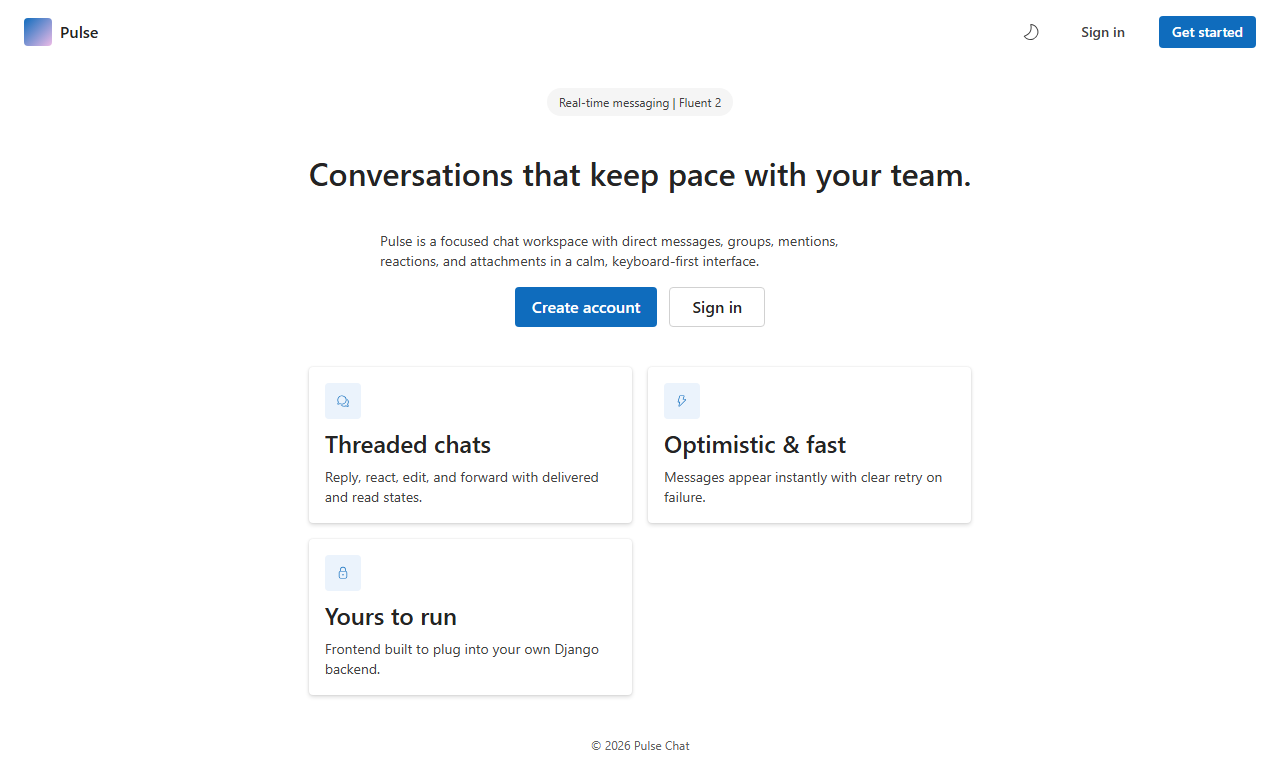
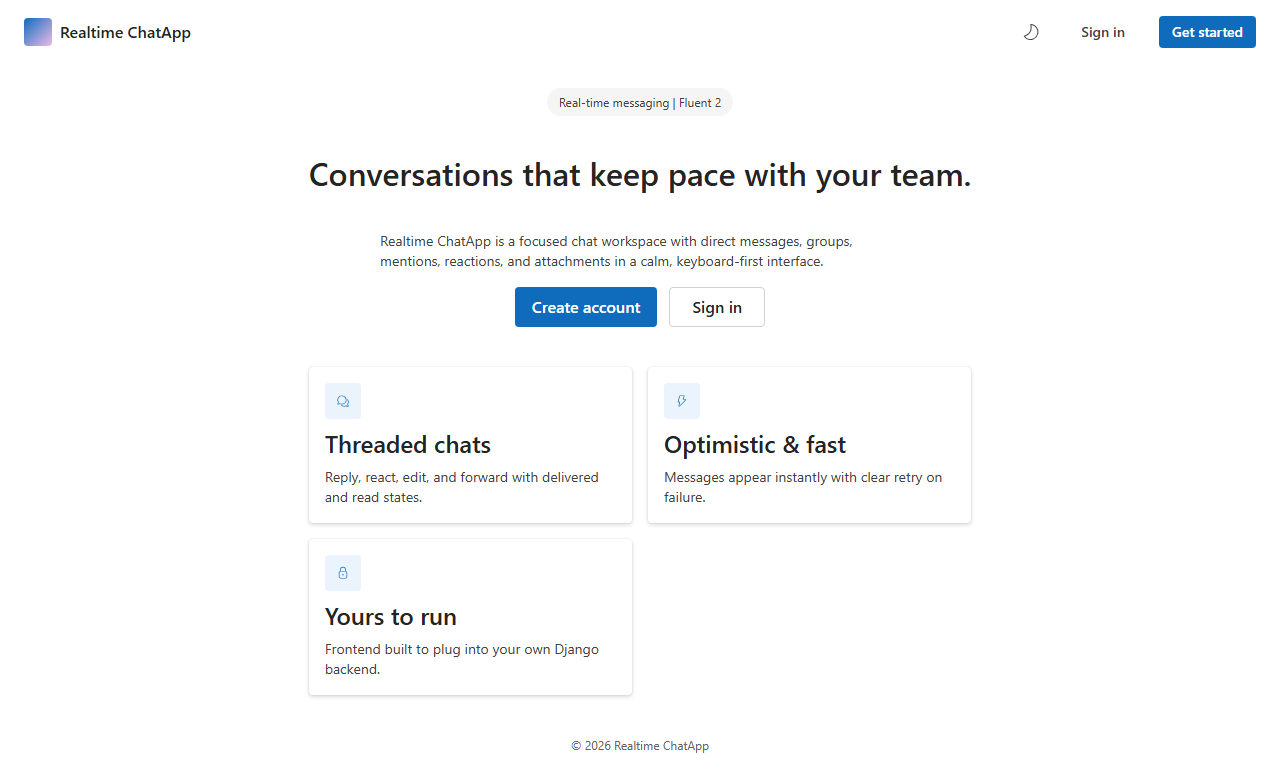
Rename app branding and refresh README (#2)

Changed region(s): [[0.2812, 0.3113, 0.6562, 0.3424], [0.4375, 0.965, 0.5625, 0.9961], [0.0312, 0.0311, 0.1562, 0.0623]]

diff --git a/src/pages/LandingPage.tsx b/src/pages/LandingPage.tsx
@@ -106,7 +106,7 @@ export default function LandingPage() {
       <header className={s.header}>
         <div className={s.brand}>
           <span className={s.brandMark} aria-hidden />
-          Pulse
+          Realtime ChatApp
         </div>
         <div style={{ display: "flex", gap: 8, alignItems: "center" }}>
           <ThemeToggle />
@@ -124,8 +124,8 @@ export default function LandingPage() {
           <span className={s.eyebrow}>Real-time messaging | Fluent 2</span>
           <Title1 as="h1">Conversations that keep pace with your team.</Title1>
           <Body1 style={{ color: tokens.colorNeutralForeground2, maxWidth: 520 }}>
-            Pulse is a focused chat workspace with direct messages, groups, mentions, reactions, and
-            attachments in a calm, keyboard-first interface.
+            Realtime ChatApp is a focused chat workspace with direct messages, groups, mentions,
+            reactions, and attachments in a calm, keyboard-first interface.
           </Body1>
           <div className={s.ctas}>
             <Link to="/register">
@@ -172,7 +172,7 @@ export default function LandingPage() {
         </div>
       </section>
 
-      <footer className={s.footer}>&copy; {new Date().getFullYear()} Pulse Chat</footer>
+      <footer className={s.footer}>&copy; {new Date().getFullYear()} Realtime ChatApp</footer>
     </div>
   );
 }

diff --git a/index.html b/index.html
@@ -4,12 +4,12 @@
     <meta charset="UTF-8" />
     <link rel="icon" type="image/x-icon" href="/favicon.ico" />
     <meta name="viewport" content="width=device-width, initial-scale=1, viewport-fit=cover" />
-    <title>Pulse Chat — Fast, focused messaging</title>
+    <title>Realtime ChatApp — Fast, focused messaging</title>
     <meta
       name="description"
-      content="Pulse Chat is a fast, focused messaging workspace for teams and friends."
+      content="Realtime ChatApp is a fast, focused messaging workspace for teams and friends."
     />
-    <meta property="og:title" content="Pulse Chat" />
+    <meta property="og:title" content="Realtime ChatApp" />
     <meta property="og:description" content="Fast, focused messaging for teams and friends." />
     <meta property="og:type" content="website" />
     <meta name="twitter:card" content="summary_large_image" />

diff --git a/src/pages/AuthLayout.tsx b/src/pages/AuthLayout.tsx
@@ -77,7 +77,7 @@ export function AuthLayout({ title, subtitle, children, quote }: Props) {
       <aside className={s.aside}>
         <Link to="/" className={s.brand} style={{ color: "inherit", textDecoration: "none" }}>
           <span className={s.brandMark} aria-hidden />
-          Pulse
+          Realtime ChatApp
         </Link>
         <div className={s.quote}>
           <Title2 as="p">
@@ -85,7 +85,7 @@ export function AuthLayout({ title, subtitle, children, quote }: Props) {
           </Title2>
         </div>
         <div style={{ color: tokens.colorNeutralForeground3, fontSize: tokens.fontSizeBase200 }}>
-          © {new Date().getFullYear()} Pulse Chat
+          © {new Date().getFullYear()} Realtime ChatApp
         </div>
       </aside>
       <main className={s.main}>
@@ -96,7 +96,7 @@ export function AuthLayout({ title, subtitle, children, quote }: Props) {
             style={{ color: "inherit", textDecoration: "none" }}
           >
             <span className={s.brandMark} aria-hidden />
-            Pulse
+            Realtime ChatApp
           </Link>
           <div style={{ marginLeft: "auto" }}>
             <ThemeToggle />

diff --git a/src/pages/ForgotPasswordPage.tsx b/src/pages/ForgotPasswordPage.tsx
@@ -60,7 +60,10 @@ export default function ForgotPasswordPage() {
   }
 
   return (
-    <AuthLayout title="Reset your password" subtitle="Enter the email you use for Pulse.">
+    <AuthLayout
+      title="Reset your password"
+      subtitle="Enter the email you use for Realtime ChatApp."
+    >
       <form className={s.form} onSubmit={onSubmit} noValidate>
         <Field
           label="Email"

diff --git a/src/pages/ChatPage.tsx b/src/pages/ChatPage.tsx
@@ -241,7 +241,7 @@ export default function ChatPage() {
             onClick={() => setDrawerOpen(true)}
           />
           <div className={s.brand}>
-            <span className={s.brandMark} /> Pulse
+            <span className={s.brandMark} /> Realtime ChatApp
           </div>
           <div style={{ marginLeft: "auto", display: "flex", gap: 4 }}>
             <Tooltip content="Search" relationship="label">

diff --git a/src/pages/SignInPage.tsx b/src/pages/SignInPage.tsx
@@ -58,7 +58,7 @@ export default function SignInPage() {
   }
 
   return (
-    <AuthLayout title="Welcome back" subtitle="Sign in to your Pulse account.">
+    <AuthLayout title="Welcome back" subtitle="Sign in to your Realtime ChatApp account.">
       <form className={s.form} onSubmit={onSubmit} noValidate>
         {error ? (
           <MessageBar intent="error">

diff --git a/README.md b/README.md
@@ -1,6 +1,10 @@
-# Pulse Chat
+# Realtime ChatApp
 
-Pulse Chat is a Fluent UI React frontend backed by Django, Django REST Framework, Channels, and SQLite. The repository includes seeded demo data, API integration, browser-based end-to-end tests, GitHub Actions CI, and reproducible README screenshots.
+Realtime ChatApp is a full-stack real-time messaging application with a React frontend and a Django backend. It combines Fluent UI, Django REST Framework, Channels, and SQLite3 to provide a focused workspace for direct messages and group conversations.
+
+The project includes token authentication, WebSocket delivery, reactions, replies, forwarding, deterministic demo data, Playwright E2E coverage, README screenshots, and GitHub Actions CI.
+
+Repository: [toscani-tenekeu/Realtime_ChatApp_Django_ReactJS_SQLite3](https://github.com/toscani-tenekeu/Realtime_ChatApp_Django_ReactJS_SQLite3)
 
 ## Screenshots
 
@@ -12,7 +16,7 @@ Pulse Chat is a Fluent UI React frontend backed by Django, Django REST Framework
 
 ## Stack
 
-- React 19 + Vite + Fluent UI 9
+- React 19 + Vite + Fluent UI
 - Django + Django REST Framework + Channels
 - SQLite for local development
 - Playwright for E2E coverage